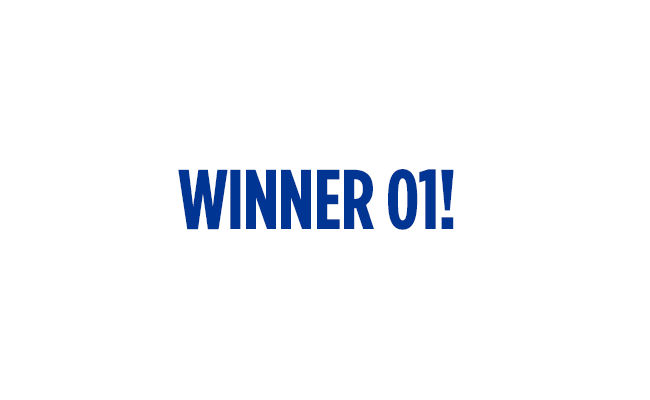
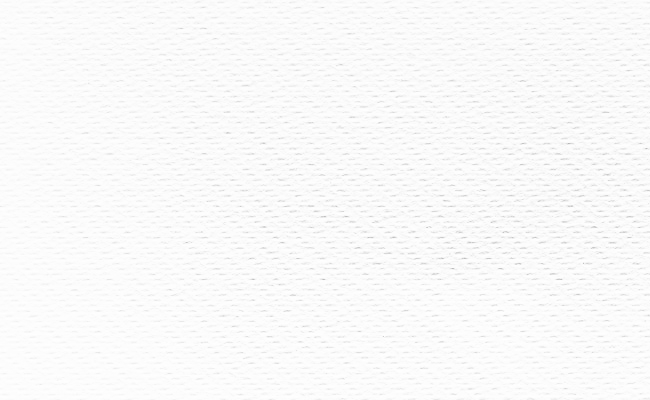
updates to envelope

Changed region(s): [[0.2769, 0.42, 0.7077, 0.6]]

diff --git a/demopage/Cataboom/CAT_Envelope_Prototype/CAT_Envelope_Prototype_v01.js b/demopage/Cataboom/CAT_Envelope_Prototype/CAT_Envelope_Prototype_v01.js
@@ -25,6 +25,18 @@ lib.ssMetadata = [];
 
 
 
+(lib.Bitmap1 = function() {
+	this.initialize(img.Bitmap1);
+}).prototype = p = new cjs.Bitmap();
+p.nominalBounds = new cjs.Rectangle(0,0,691,223);
+
+
+(lib.Bitmap2 = function() {
+	this.initialize(img.Bitmap2);
+}).prototype = p = new cjs.Bitmap();
+p.nominalBounds = new cjs.Rectangle(0,0,546,389);
+
+
 (lib.Bitmap4 = function() {
 	this.initialize(img.Bitmap4);
 }).prototype = p = new cjs.Bitmap();
@@ -53,6 +65,28 @@ function getMCSymbolPrototype(symbol, nominalBounds, frameBounds) {
 	}
 
 
+(lib.envelope_SHADOW = function(mode,startPosition,loop,reversed) {
+if (loop == null) { loop = true; }
+if (reversed == null) { reversed = false; }
+	var props = new Object();
+	props.mode = mode;
+	props.startPosition = startPosition;
+	props.labels = {};
+	props.loop = loop;
+	props.reversed = reversed;
+	cjs.MovieClip.apply(this,[props]);
+
+	// Layer_1
+	this.instance = new lib.Bitmap2();
+	this.instance.setTransform(-681.3,0,1.2478,1.2478);
+
+	this.timeline.addTween(cjs.Tween.get(this.instance).wait(1));
+
+	this._renderFirstFrame();
+
+}).prototype = getMCSymbolPrototype(lib.envelope_SHADOW, new cjs.Rectangle(-681.3,0,681.3,485.4), null);
+
+
 (lib.color_bg = function(mode,startPosition,loop,reversed) {
 if (loop == null) { loop = true; }
 if (reversed == null) { reversed = false; }
@@ -66,7 +100,7 @@ if (reversed == null) { reversed = false; }
 
 	// Layer_1
 	this.shape = new cjs.Shape();
-	this.shape.graphics.f("#FFFFFF").s().p("Eg7EAn3MAAAhPtMB2JAAAMAAABPtg");
+	this.shape.graphics.f("#F5F5F5").s().p("Eg7EAn3MAAAhPtMB2JAAAMAAABPtg");
 	this.shape.setTransform(-378.1,255.075);
 
 	this.timeline.addTween(cjs.Tween.get(this.shape).wait(1));
@@ -86,6 +120,16 @@ if (reversed == null) { reversed = false; }
 	props.loop = loop;
 	props.reversed = reversed;
 	cjs.MovieClip.apply(this,[props]);
+
+	// Layer_3
+	this.card_mc_txt = new cjs.Text("", "bold 94px 'Futura Std Condensed'");
+	this.card_mc_txt.name = "card_mc_txt";
+	this.card_mc_txt.textAlign = "center";
+	this.card_mc_txt.lineHeight = 96;
+	this.card_mc_txt.parent = this;
+	this.card_mc_txt.setTransform(-325.2,150.4);
+
+	this.timeline.addTween(cjs.Tween.get(this.card_mc_txt).wait(1));
 
 	// Layer_2
 	this.instance = new lib.img_01();
@@ -134,6 +178,21 @@ if (reversed == null) { reversed = false; }
 
 	this.timeline.addTween(cjs.Tween.get(this.card_mc).wait(36).to({_off:false},0).to({regY:203,scaleX:1.9039,scaleY:1.9039,rotation:-6.2287,x:518,y:308.65},8,cjs.Ease.circInOut).wait(13));
 
+	// Layer_4
+	this.instance = new lib.Bitmap1();
+	this.instance.setTransform(147.65,227);
+	this.instance._off = true;
+
+	this.timeline.addTween(cjs.Tween.get(this.instance).wait(11).to({_off:false},0).to({_off:true},33).wait(13));
+
+	// card
+	this.card_mc_1 = new lib.card_mc();
+	this.card_mc_1.name = "card_mc_1";
+	this.card_mc_1.setTransform(491.1,-152.85,1,1,0,0,0,-323.1,203.1);
+	this.card_mc_1._off = true;
+
+	this.timeline.addTween(cjs.Tween.get(this.card_mc_1).wait(36).to({_off:false},0).to({regY:203,scaleX:1.9039,scaleY:1.9039,rotation:-6.2287,x:518,y:308.65},8,cjs.Ease.circInOut).wait(13));
+
 	// card_mask (mask)
 	var mask = new cjs.Shape();
 	mask._off = true;
@@ -142,18 +201,18 @@ if (reversed == null) { reversed = false; }
 	this.timeline.addTween(cjs.Tween.get(mask).to({graphics:null,x:0,y:0}).wait(25).to({graphics:mask_graphics_25,x:518.175,y:-133.716}).wait(32));
 
 	// card
-	this.card_mc_1 = new lib.card_mc();
-	this.card_mc_1.name = "card_mc_1";
-	this.card_mc_1.setTransform(491.1,567.15,1,1,0,0,0,-323.1,203.1);
-	this.card_mc_1._off = true;
+	this.card_mc_2 = new lib.card_mc();
+	this.card_mc_2.name = "card_mc_2";
+	this.card_mc_2.setTransform(491.1,567.15,1,1,0,0,0,-323.1,203.1);
+	this.card_mc_2._off = true;
 
-	var maskedShapeInstanceList = [this.card_mc_1];
+	var maskedShapeInstanceList = [this.card_mc_2];
 
 	for(var shapedInstanceItr = 0; shapedInstanceItr < maskedShapeInstanceList.length; shapedInstanceItr++) {
 		maskedShapeInstanceList[shapedInstanceItr].mask = mask;
 	}
 
-	this.timeline.addTween(cjs.Tween.get(this.card_mc_1).wait(25).to({_off:false},0).to({y:-152.85},11,cjs.Ease.quadIn).to({_off:true},1).wait(20));
+	this.timeline.addTween(cjs.Tween.get(this.card_mc_2).wait(25).to({_off:false},0).to({y:-152.85},11,cjs.Ease.quadIn).to({_off:true},1).wait(20));
 
 	// Envelope_top (mask)
 	var mask_1 = new cjs.Shape();
@@ -166,11 +225,11 @@ if (reversed == null) { reversed = false; }
[16 lines of base64/hex data omitted]
@@ -182,17 +241,17 @@ if (reversed == null) { reversed = false; }
 	this.timeline.addTween(cjs.Tween.get(mask_1).to({graphics:null,x:0,y:0}).wait(6).to({graphics:mask_1_graphics_6,x:487.75,y:264.5801}).wait(1).to({graphics:mask_1_graphics_7,x:480.7,y:274.5828}).wait(1).to({graphics:mask_1_graphics_8,x:486.2,y:286.019}).wait(1).to({graphics:mask_1_graphics_9,x:488.125,y:290.0037}).wait(1).to({graphics:mask_1_graphics_10,x:489.325,y:292.5037}).wait(1).to({graphics:mask_1_graphics_11,x:490.075,y:294.1037}).wait(1).to({graphics:mask_1_graphics_12,x:490.5,y:294.984}).wait(1).to({graphics:mask_1_graphics_13,x:490.65,y:295.284}).wait(1).to({graphics:mask_1_graphics_14,x:490.65,y:295.284}).wait(1).to({graphics:mask_1_graphics_15,x:490.65,y:278.6485}).wait(1).to({graphics:mask_1_graphics_16,x:490.65,y:262.0111}).wait(1).to({graphics:mask_1_graphics_17,x:490.65,y:245.3579}).wait(1).to({graphics:mask_1_graphics_18,x:490.65,y:228.7264}).wait(1).to({graphics:mask_1_graphics_19,x:490.65,y:212.1004}).wait(1).to({graphics:mask_1_graphics_20,x:490.65,y:133.0454}).wait(1).to({graphics:mask_1_graphics_21,x:490.65,y:130.972}).wait(1).to({graphics:mask_1_graphics_22,x:490.65,y:116.5097}).wait(1).to({graphics:mask_1_graphics_23,x:490.65,y:84.9757}).wait(1).to({graphics:mask_1_graphics_24,x:490.65,y:70.5057}).wait(1).to({graphics:mask_1_graphics_25,x:490.65,y:68.431}).wait(32));
 
 	// color
-	this.instance = new lib.color_bg();
-	this.instance.setTransform(504.15,212.25,1,1.7402,0,0,0,-378.1,255);
-	this.instance._off = true;
+	this.instance_1 = new lib.color_bg();
+	this.instance_1.setTransform(504.15,212.25,1,1.7402,0,0,0,-378.1,255);
+	this.instance_1._off = true;
 
-	var maskedShapeInstanceList = [this.instance];
+	var maskedShapeInstanceList = [this.instance_1];
 
 	for(var shapedInstanceItr = 0; shapedInstanceItr < maskedShapeInstanceList.length; shapedInstanceItr++) {
 		maskedShapeInstanceList[shapedInstanceItr].mask = mask_1;
 	}
 
-	this.timeline.addTween(cjs.Tween.get(this.instance).wait(6).to({_off:false},0).wait(51));
+	this.timeline.addTween(cjs.Tween.get(this.instance_1).wait(6).to({_off:false},0).wait(51));
 
 	// Envelope_top_shdw
 	this.shape = new cjs.Shape();
@@ -257,16 +316,23 @@ if (reversed == null) { reversed = false; }
 	this.timeline.addTween(cjs.Tween.get(mask_2).to({graphics:mask_2_graphics_0,x:491.175,y:407.175}).wait(1).to({graphics:mask_2_graphics_1,x:491.175,y:407.175}).wait(1).to({graphics:mask_2_graphics_2,x:490.5,y:406.075}).wait(1).to({graphics:mask_2_graphics_3,x:488.5,y:402.675}).wait(1).to({graphics:mask_2_graphics_4,x:485.15,y:397.075}).wait(1).to({graphics:mask_2_graphics_5,x:491.15,y:397.075}).wait(1).to({graphics:mask_2_graphics_6,x:491.15,y:398.075}).wait(1).to({graphics:mask_2_graphics_7,x:481.15,y:398.075}).wait(1).to({graphics:mask_2_graphics_8,x:486.675,y:397.525}).wait(1).to({graphics:mask_2_graphics_9,x:488.6,y:397.325}).wait(1).to({graphics:mask_2_graphics_10,x:489.825,y:397.2}).wait(1).to({graphics:mask_2_graphics_11,x:490.575,y:397.125}).wait(1).to({graphics:mask_2_graphics_12,x:491.025,y:397.1}).wait(1).to({graphics:mask_2_graphics_13,x:491.15,y:397.075}).wait(1).to({graphics:mask_2_graphics_14,x:491.15,y:397.075}).wait(43));
 
 	// color
-	this.instance_1 = new lib.color_bg();
-	this.instance_1.setTransform(504.15,210.75,1,1.7467,0,0,0,-378.1,255.1);
+	this.colorBG = new lib.color_bg();
+	this.colorBG.name = "colorBG";
+	this.colorBG.setTransform(504.15,210.75,1,1.7467,0,0,0,-378.1,255.1);
 
-	var maskedShapeInstanceList = [this.instance_1];
+	var maskedShapeInstanceList = [this.colorBG];
 
 	for(var shapedInstanceItr = 0; shapedInstanceItr < maskedShapeInstanceList.length; shapedInstanceItr++) {
 		maskedShapeInstanceList[shapedInstanceItr].mask = mask_2;
 	}
 
-	this.timeline.addTween(cjs.Tween.get(this.instance_1).wait(57));
+	this.timeline.addTween(cjs.Tween.get(this.colorBG).wait(57));
+
+	// Layer_6
+	this.instance_2 = new lib.envelope_SHADOW();
+	this.instance_2.setTransform(498,419.7,0.77,0.76,0,0,0,-340.5,242.7);
+
+	this.timeline.addTween(cjs.Tween.get(this.instance_2).wait(1).to({regX:-340.4,scaleX:0.257,x:485.95,y:411.7},3).wait(1).to({regX:-340.2,scaleX:0.0744,x:493.95},0).wait(1).to({regX:-339.8,scaleX:0.0447,x:489.95},0).wait(1).to({regX:-338.9,scaleX:0.1798,x:482.05},0).to({regX:-338.6,regY:242.9,scaleX:1.0083,scaleY:0.9585,x:498.95,y:423.85},6,cjs.Ease.circOut).wait(44));
 
 	this._renderFirstFrame();
 
@@ -344,16 +410,21 @@ if (reversed == null) { reversed = false; }
 		}
 		
 		onResize();
-		this.stop();
+		/*this.stop();*/
 		
 		var root = this; //Declared variable for access to global scope.
-		
+		this.envelope_mc.card_mc.card_mc_txt.text = winNum;
+		/*this.envelope_mc.colorBG._fill = "#3399CC";*/
 		var direction = "left"; // right, top, bottom;
-		var newMove = stageHeight/2 - 200;
 		
+		var newMove = stageHeight/2 - ;
+		this.envelope_mc.play();
+		
+		console.log(this.envelope_mc.card_mc.card_mc_txt);
 		
 		tl_main = new gsap.timeline();
-		tl_main.to(this.envelope_mc, 0.5, {y:newMove,ease:"back.out(1)"});
+		/*tl_main.to(this.envelope_mc, 0.5, {y:newMove,ease:"back.out(1)"})*/
+		
 		
 		/*root.envelope_mc.play();*/
 		 
@@ -395,14 +466,14 @@ if (reversed == null) { reversed = false; }
 	// envelope_mc
 	this.envelope_mc = new lib.envelope_mc();
 	this.envelope_mc.name = "envelope_mc";
-	this.envelope_mc.setTransform(510,859.8,0.5,0.5,0,0,0,495.6,410.9);
+	this.envelope_mc.setTransform(512.05,384.35,0.5,0.5,0,0,0,490.6,408.3);
 
 	this.timeline.addTween(cjs.Tween.get(this.envelope_mc).wait(150));
 
 	this._renderFirstFrame();
 
 }).prototype = p = new lib.AnMovieClip();
-p.nominalBounds = new cjs.Rectangle(837.2,920.9,-133.9000000000001,61.5);
+p.nominalBounds = new cjs.Rectangle(841.8,446.8,-133.89999999999998,61.5);
 // library properties:
 lib.properties = {
 	id: '23A1D34BD4544662A0DA4F8E227B30BA',
@@ -412,8 +483,10 @@ lib.properties = {
 	color: "#999999",
 	opacity: 1.00,
 	manifest: [
-		{src:"images/Bitmap4.png?1616003136239", id:"Bitmap4"},
-		{src:"images/img_01.png?1616003136239", id:"img_01"}
+		{src:"images/Bitmap1.png?1616014741518", id:"Bitmap1"},
+		{src:"images/Bitmap2.png?1616014741518", id:"Bitmap2"},
+		{src:"images/Bitmap4.png?1616014741518", id:"Bitmap4"},
+		{src:"images/img_01.png?1616014741518", id:"img_01"}
 	],
 	preloads: []
 };

diff --git a/demopage/Cataboom/CAT_Envelope_Prototype/CAT_Envelope_Prototype_v01.html b/demopage/Cataboom/CAT_Envelope_Prototype/CAT_Envelope_Prototype_v01.html
@@ -14,8 +14,9 @@
 <title>CAT_Envelope_Prototype_v01</title>
 <!-- write your code here -->
 <script src="https://code.createjs.com/1.0.0/createjs.min.js"></script>
-<script src="CAT_Envelope_Prototype_v01.js?1616003136249"></script>
+<script src="CAT_Envelope_Prototype_v01.js?1615948609922"></script>
 <script type='text/javascript' src='https://s0.2mdn.net/ads/studio/cached_libs/gsap_3.5.1_min.js'></script>
+<script type='text/javascript' src='envelope.js'></script>
 <script>
 var canvas, stage, exportRoot, anim_container, dom_overlay_container, fnStartAnimation;
 function init() {
@@ -68,6 +69,6 @@ function handleComplete(evt,comp) {
 		<div id="dom_overlay_container" style="pointer-events:none; overflow:hidden; width:1024px; height:768px; position: absolute; left: 0px; top: 0px; display: none;">
 		</div>
 	</div>
-    <div id='_preload_div_' style='position:absolute; top:0; left:0; display: inline-block; height:768px; width: 1024px; text-align: center;'>	<span style='display: inline-block; height: 100%; vertical-align: middle;'></span>	<img src=images/_preloader.gif?1616003136250 style='vertical-align: middle; max-height: 100%'/></div>
+    <div id='_preload_div_' style='position:absolute; top:0; left:0; display: inline-block; height:768px; width: 1024px; text-align: center;'>	<span style='display: inline-block; height: 100%; vertical-align: middle;'></span>	<img src=images/_preloader.gif?1615948609922 style='vertical-align: middle; max-height: 100%'/></div>
 </body>
 </html>

diff --git a/demopage/Cataboom/CAT_Envelope_Prototype/envelope.js b/demopage/Cataboom/CAT_Envelope_Prototype/envelope.js
@@ -1,19 +1,3 @@
 
-var imgSrc = winSolution();
-
-function winSolution() {
-	switch(winNum) {
-		case 1:
-		  var imgSrc = "images/img_01.png";
-		  break;
-		case 2:
-			var imgSrc = "images/img_02.png";
-		  break;
-		case 3:
-			var imgSrc = "images/img_03.png";
-		  break;
-		default:
-			var imgSrc = "images/img_01.png";
-	  }
-	  return imgSrc;
-	}
+var winNum = 1;
+var Direction = "left"; // right, top, bottom;
